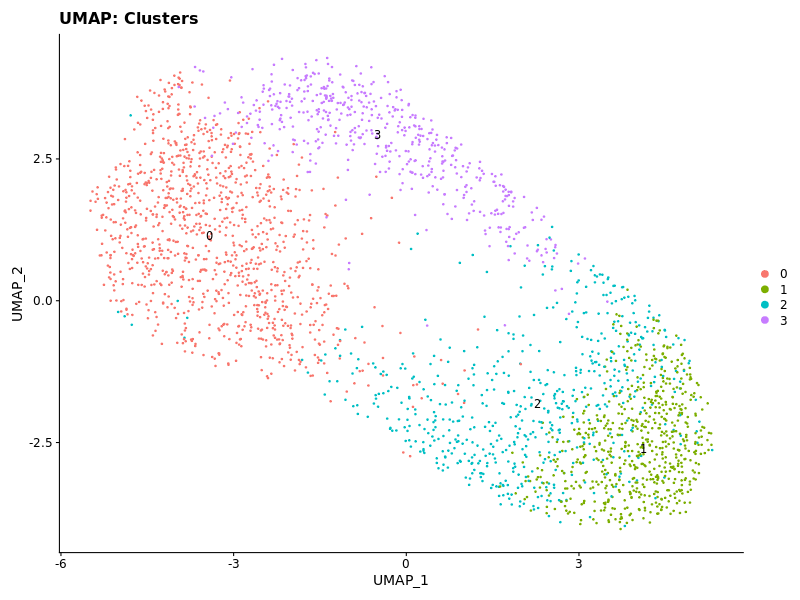
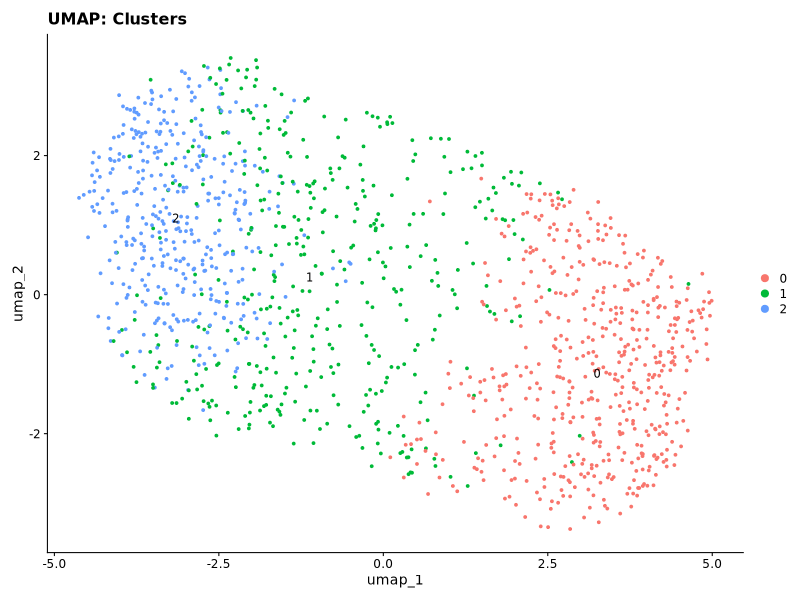
Revise first 2 figs to latest

diff --git a/dataAnalysis/RNA-Seq/Single_Cell_RNAseq/Single_Cell_Pipseq.md b/dataAnalysis/RNA-Seq/Single_Cell_RNAseq/Single_Cell_Pipseq.md
@@ -27,6 +27,18 @@ This sample is derived from the study:
 | **Chemistry**           | PIPseq T2 kit v3 chemistry                                         |
 
 
+
+| Cell Type | Gene Expression |
+|-----------|-----------------|
+|Midbrain (Rgl1, ProgM, ProgFPL, and ProgFPM cells)| LMX1A, FOXA2, and OTX2 | 
+|Hindbrain | FGF8B, GBX2, HOXA2 |
+|Ventral midbrain | FOXA2, OTX2, CORIN |
+|Caudal midbrain | MSX1, WNT5A, WNT1, EN1 |
+|Pluripotent stem cell | NANOG and POU5F1 (high expression) |
+|Progenitor markers (peak day 21, decrease by day 28) | SOX2, NEUROG2, LMX1A, FOXA2 |
+|Postmitotic cells | DCX, TUBB3 |
+|mDA2 neurons (peak day 28)|NR4A2, TH |
+
 # File Setup 
 
 ### Download and extract single cell RNAseq data
@@ -477,7 +489,7 @@ STAR --genomeDir refdata-gex-GRCh38-2020-A/STAR_index \
 | **Mean Reads per Cell**                             | 13,959      | 11,193               | 32,149               | 60,097                                    | Average total reads per cell barcode.                                       |
 | **Median Reads per Cell**                           | 9,899       | 8,544                | 22,761               | 50,789                                   | Median number of reads across all valid cells.                              |
 | **UMIs in Cells**                                   | 10,731,984  | 16,556,235           | 17,026,462           | 14,045,959                               | Total unique molecular identifiers (UMIs) in valid cells.                   |
-| **Mean UMI per Cell**                               | 3,850       | 7,707                | 5,924                | 10482                                    | Average number of UMIs per cell.                                            |
+| **Mean UMI per Cell**                               | 3,850       | 7,707                | 5,924                | 10,482                                    | Average number of UMIs per cell.                                            |
 | **Median UMI per Cell**                             | 2,856       | 6,079                | 4,374                | 9,460                                    | Median UMIs per cell.                                                       |
 | **Mean Gene per Cell**                              | 2,215       | 1,987                | 3,032                | 4,472                                    | Average number of genes detected per cell.                                  |
 | **Median Gene per Cell**                            | 1,967       | 1,785                | 2,748                | 4,319                                    | Median number of genes detected per cell.                                   |
@@ -498,7 +510,7 @@ library(ggplot2)
 library(patchwork)
 
 # Set data directory (change if needed)
-data_dir <- "/work/gif3/masonbrink/USDA/05_PipseqTutorial/ERR14876813_out/Gene/filtered/"
+data_dir <- "/work/gif3/masonbrink/USDA/05_PipseqTutorial/ERR14876813_Trim_Whitelist_out/Gene/filtered/"
 
 # Load 10x Genomics matrix
 counts <- Read10X(data.dir = data_dir)
@@ -521,11 +533,11 @@ ElbowPlot(seurat_obj)  # Optional: to determine optimal dims
 # Dimensional reduction and clustering
 seurat_obj <- RunUMAP(seurat_obj, dims = 1:20)
 seurat_obj <- FindNeighbors(seurat_obj, dims = 1:20)
-seurat_obj <- FindClusters(seurat_obj, resolution = 1.5)
+seurat_obj <- FindClusters(seurat_obj, resolution = 0.5)
 
 # Optional: Hedgehog-specific analysis
 # If you have a list of hedgehog signaling genes (e.g., SHH, GLI1, PTCH1)
-hedgehog_genes <- c("SHH", "GLI1", "PTCH1", "SMO", "HHIP")
+hedgehog_genes <- c("FOXA2", "FOXA1", "ARX", "TFF3", "PAX6", "OTX2", "EMX2", "NKX2-1", "RAX", "SIX6")
 seurat_obj <- AddModuleScore(seurat_obj, features = list(hedgehog_genes), name = "HedgehogScore")
 
 # Plot clusters and expression of hedgehog genes
@@ -544,11 +556,13 @@ png("UMAP_HedgehogScore.png", width = 800, height = 600)
 print(p2)
 dev.off()
 
-saveRDS(seurat_obj, "/work/gif3/masonbrink/USDA/05_PipseqTutorial/ERR14876813_out/Gene/filtered/03_Clustered.rds")
+saveRDS(seurat_obj, "/work/gif3/masonbrink/USDA/05_PipseqTutorial/ERR14876813_Trim_Whitelist_out/Gene/filtered/03_Clustered.rds")
 ```
-
+**Raw read alignment with StarSolo**
 ![UMAP_Clusters](Assets/PipseqTut_UMAP_Clusters.png)
 ![UMAP_Clusters_HedghogGeneScore](Assets/PipseqTut_UMAP_HedgehogScore.png)
+
+**Filtered read alignment with trimming, umi_tools, and genome mapping**
 
 
 
@@ -569,7 +583,7 @@ library(patchwork)
 set.seed(123)
 
 # Load new Seurat object
-seu <- readRDS(file = "/work/gif3/masonbrink/USDA/05_PipseqTutorial/ERR14876813_out/Gene/filtered/03_Clustered.rds")
+seu <- readRDS(file = "/work/gif3/masonbrink/USDA/05_PipseqTutorial/ERR14876813_Trim_Whitelist_out/Gene/filtered/03_Clustered.rds")
 
 # Check clusters
 cat("Cluster sizes:\n")
@@ -629,7 +643,7 @@ library(dplyr)
 set.seed(123)
 
 # Load data
-seu <- readRDS(file ="/work/gif3/masonbrink/USDA/05_PipseqTutorial/ERR14876813_out/Gene/filtered/03_Clustered.rds")
+seu <- readRDS(file ="/work/gif3/masonbrink/USDA/05_PipseqTutorial/ERR14876813_Trim_Whitelist_out/Gene/filtered/03_Clustered.rds")
 table(seu$seurat_clusters)
 ## continuing with res 1 
 
@@ -658,9 +672,9 @@ df_wide <- as.data.frame.matrix(mat)
 head(df_wide)
 
 ## Save files
-write.csv(sig_markers, "/work/gif3/masonbrink/USDA/05_PipseqTutorial/ERR14876813_out/Gene/filtered/Significant_markers.csv", row.names = FALSE)
-write.csv(df_wide, "/work/gif3/masonbrink/USDA/05_PipseqTutorial/ERR14876813_out/Gene/filtered/Marker_presence_matrix.csv", row.names = TRUE)
-write.csv(top_markers_per_cluster, "/work/gif3/masonbrink/USDA/05_PipseqTutorial/ERR14876813_out/Gene/filtered/Top30_markers_per_cluster.csv", row.names = FALSE)
+write.csv(sig_markers, "/work/gif3/masonbrink/USDA/05_PipseqTutorial/ERR14876813_Trim_Whitelist_out/Gene/filtered/Significant_markers.csv", row.names = FALSE)
+write.csv(df_wide, "/work/gif3/masonbrink/USDA/05_PipseqTutorial/ERR14876813_Trim_Whitelist_out/Gene/filtered/Marker_presence_matrix.csv", row.names = TRUE)
+write.csv(top_markers_per_cluster, "/work/gif3/masonbrink/USDA/05_PipseqTutorial/ERR14876813_Trim_Whitelist_out/Gene/filtered/Top30_markers_per_cluster.csv", row.names = FALSE)
 
 ```
 <brk>
@@ -722,7 +736,7 @@ library(patchwork)
 set.seed(123)
 
 # Load new Seurat object
-seu <- readRDS(file = "/work/gif3/masonbrink/USDA/05_PipseqTutorial/ERR14876813_out/Gene/filtered/03_Clustered.rds")
+seu <- readRDS(file = "/work/gif3/masonbrink/USDA/05_PipseqTutorial/ERR14876813_out/Gene/filtered/03_Clustered_cleaned.rds")
 
 # Check clusters
 cat("Cluster sizes:\n")
@@ -744,9 +758,7 @@ DefaultAssay(seu) <- "RNA_clean"
 
 # Marker genes
 markers <- c(
-  'FUNDC1', 'FAM71D', 'PMPCA', 'DCAF7', 'SKP2', 'SFT2D1', 'GPR19', 'RPL26L1', 'ADK', 'GANAB',  # Cluster_0
-  'RPL35A', 'RPS17', 'RPS4X', 'RPL31', 'RPS18', 'RPS6', 'RPL41', 'RPS14', 'RPL23', 'RPL8',   # Cluster_1
-  'NCL', 'MALAT1', 'ANP32E', 'TAF15', 'SMC1A'              # Cluster_3
+'HMGB2','NACA','RPL11','RPS17','RPS20','RPS23','ALPL','ANP32A','ANP32E','APLP2','ASF1B','ATF2','CCNA2','CDC25C','CDC7','CDCA3','CDCA5','CENPU'
 )
 
 # Match against dataset
@@ -921,7 +933,7 @@ dev.off()
 
 ![Cluster 3](Assets/Combine_Cluster3_Expression_Scores.png)
 
-### Use existing human single cell dataset 
+### Using the wrong reference for your existing human single cell dataset can be catastrophic!
 ``` 
 https://www.ebi.ac.uk/biostudies/arrayexpress/studies/E-MTAB-3929
 
@@ -988,13 +1000,12 @@ https://www.ebi.ac.uk/biostudies/ArrayExpress/studies/E-MTAB-15075?query=%20E-MT
 unzip E-MTAB-15075.zip
 ```
 
-
+**Run seurat with the publications reference data to label the cells in our selected sample without filtering reads**
 run seurat with new reference data
 ```R
 library(Seurat)
 library(dplyr)
 
-# Load preprocessed Seurat object as reference
 ref_seurat <- readRDS("2025.01.13_CH_synNotch_seurat_object.RDS")
 
 # Confirm what metadata column holds cell type labels
@@ -1002,13 +1013,10 @@ ref_seurat <- readRDS("2025.01.13_CH_synNotch_seurat_object.RDS")
 # head(ref_seurat@meta.data)
 
 # Replace "cell_type_column" with the correct column name for cell types
-# Common column names might be: "cell_type", "CellType", "labels", or "predicted.id"
-# For now, assuming it's "cell_type"
+# For our sample it's "base_annotation"
 ref_seurat$cell_type <- factor(ref_seurat$base_annotation)
 
 # Optional: normalize/scale again only if not already done
-# If the reference object is already normalized and embedded (check with `ref_seurat@reductions`),
-# you may skip these steps:
 ref_seurat <- NormalizeData(ref_seurat)
 ref_seurat <- FindVariableFeatures(ref_seurat)
 ref_seurat <- ScaleData(ref_seurat)
@@ -1061,3 +1069,125 @@ print(table(query$predicted.id))
 
 
 This worked, but the labels were not of very high confidence for the ventral tuberal hypothalamic progenitors.
+
+
+
+### Run seurat with the publications reference data to label the cells in our selected sample using the filtered reads/alignments
+
+```bash
+/work/gif3/masonbrink/USDA/05_PipseqTutorial/02_AllRDSHesc_SHH
+
+wget https://ftp.ebi.ac.uk/pub/databases/biostudies/E-MTAB-/075/E-MTAB-15075/Files/2025.01.13_CH_synNotch_seurat_object.RDS
+```
+
+Run seurat
+```R
+# Load libraries
+library(Seurat)
+library(dplyr)
+library(ggplot2)
+library(patchwork)
+
+# Load the combined Seurat object
+ref_seurat <- readRDS("/work/gif3/masonbrink/USDA/05_PipseqTutorial/02_AllRDSHesc_SHH/2025.01.13_CH_synNotch_seurat_object.RDS")
+
+
+
+# Confirm what metadata column holds cell type labels
+# Uncomment to explore:
+# head(ref_seurat@meta.data)
+
+# Replace "cell_type_column" with the correct column name for cell types
+# Common column names might be: "cell_type", "CellType", "labels", or "predicted.id"
+# For now, assuming it's "cell_type"
+ref_seurat$cell_type <- factor(ref_seurat@meta.data$base_annotation)
+
+# Optional: normalize/scale again only if not already done
+# If the reference object is already normalized and embedded (check with `ref_seurat@reductions`),
+# you may skip these steps:
+ref_seurat <- NormalizeData(ref_seurat)
+ref_seurat <- FindVariableFeatures(ref_seurat)
+ref_seurat <- ScaleData(ref_seurat)
+ref_seurat <- RunPCA(ref_seurat)
+ref_seurat <- RunUMAP(ref_seurat, dims = 1:20)
+
+# Load query object (your sample)
+query <- readRDS("/work/gif3/masonbrink/USDA/05_PipseqTutorial/ERR14876813_Trim_Whitelist_out/Gene/filtered/03_Clustered.rds")
+
+# Preprocess the query object
+query <- NormalizeData(query)
+query <- FindVariableFeatures(query)
+query <- ScaleData(query)
+query <- RunPCA(query)
+
+# Find anchors and transfer labels
+anchors <- FindTransferAnchors(reference = ref_seurat, query = query, dims = 1:20)
+predictions <- TransferData(
+  anchorset = anchors,
+  refdata = ref_seurat$cell_type,
+  dims = 1:20
+)
+
+# Add predictions to query object
+query[["predicted.id"]] <- predictions$predicted.id
+query[["prediction.score.max"]] <- predictions$prediction.score.max
+Idents(query) <- as.character(query$predicted.id)
+
+# Plot results
+p1 <- DimPlot(query, label = TRUE, repel = TRUE, group.by = "predicted.id") +
+  ggplot2::ggtitle("Cell Type Predictions")
+p2 <- VlnPlot(query, features = "prediction.score.max") +
+  ggplot2::ggtitle("Prediction Confidence Scores")
+
+# Save plots
+png("AtlasLabelsHescUmap.png", width = 800, height = 600)
+print(p1)
+dev.off()
+
+png("ViolinPredictionScores.png", width = 800, height = 600)
+print(p2)
+dev.off()
+
+# Summary
+print(table(query$predicted.id))
+```
+
+### Run the reference plot for the cells in the experiment's .rds file labeled by cell type
+```R
+library(Seurat)
+library(ggplot2)
+library(patchwork)
+
+
+
+ref_seurat <- readRDS("/work/gif3/masonbrink/USDA/05_PipseqTutorial/02_AllRDSHesc_SHH/2025.01.13_CH_synNotch_seurat_object.RDS")
+
+head(colnames(ref_seurat@meta.data))
+[1] "orig.ident"      "nCount_RNA"      "nFeature_RNA"    "sample_type"
+[5] "plotting_ident"  "RNA_snn_res.1.5"
+
+Idents(ref_seurat) <- "plotting_ident"
+
+# UMAP colored by cluster
+p1 <- DimPlot(ref_seurat, group.by = "plotting_ident", label = TRUE) + 
+      ggtitle("Clusters (plotting_ident)")
+print(p1)
+# UMAP colored by sample type
+p2 <- DimPlot(ref_seurat, group.by = "base_annotation", label = TRUE) + 
+      ggtitle("Sample Type")
+print(p2)
+#Expression of these genes on umap
+p3 <- FeaturePlot(ref_seurat, features = c("SHH", "GLI1", "PTCH1"))  
+print(p3)
+
+png("ExpressionByCluster.png", width = 800, height = 600)
+print(p3)
+dev.off()
+
+png("UMAP_Clusters_only_rds.png", width = 800, height = 600)
+print(p1)
+dev.off()
+
+png("UMAP_SampleType_only_rds.png", width = 800, height = 600)
+print(p2)
+dev.off()
